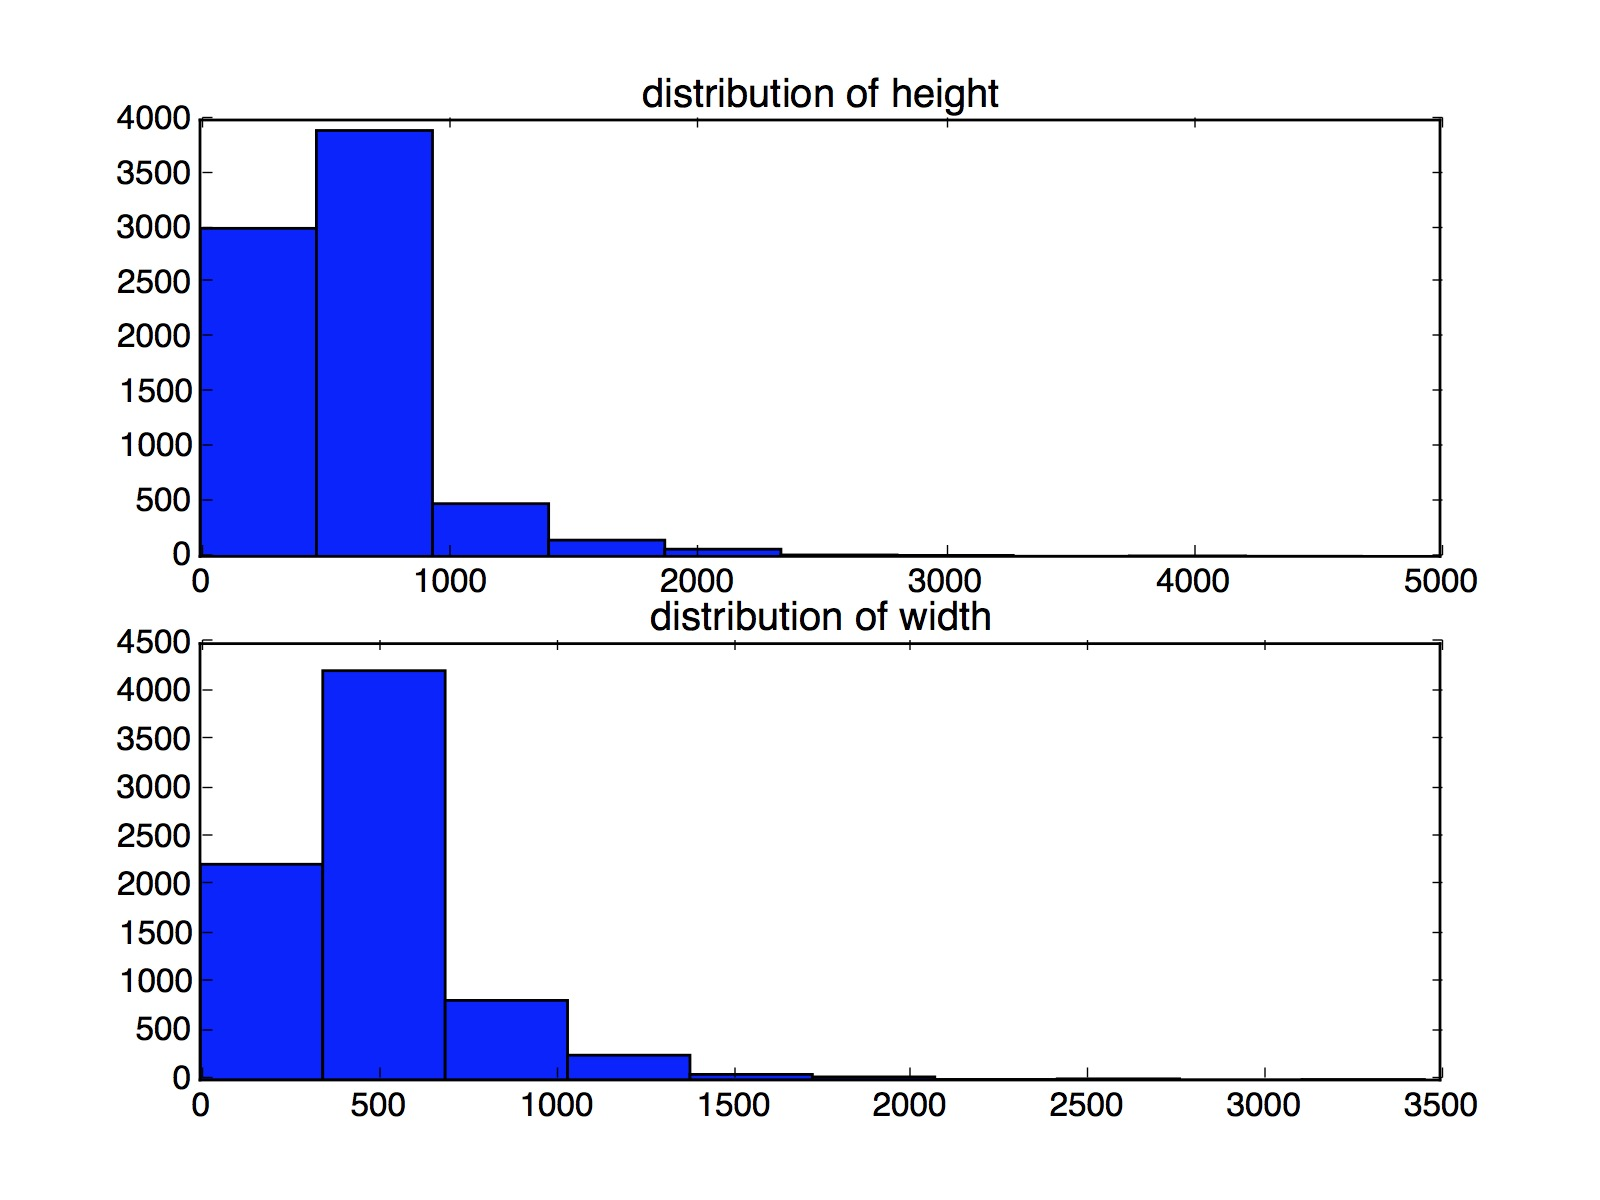
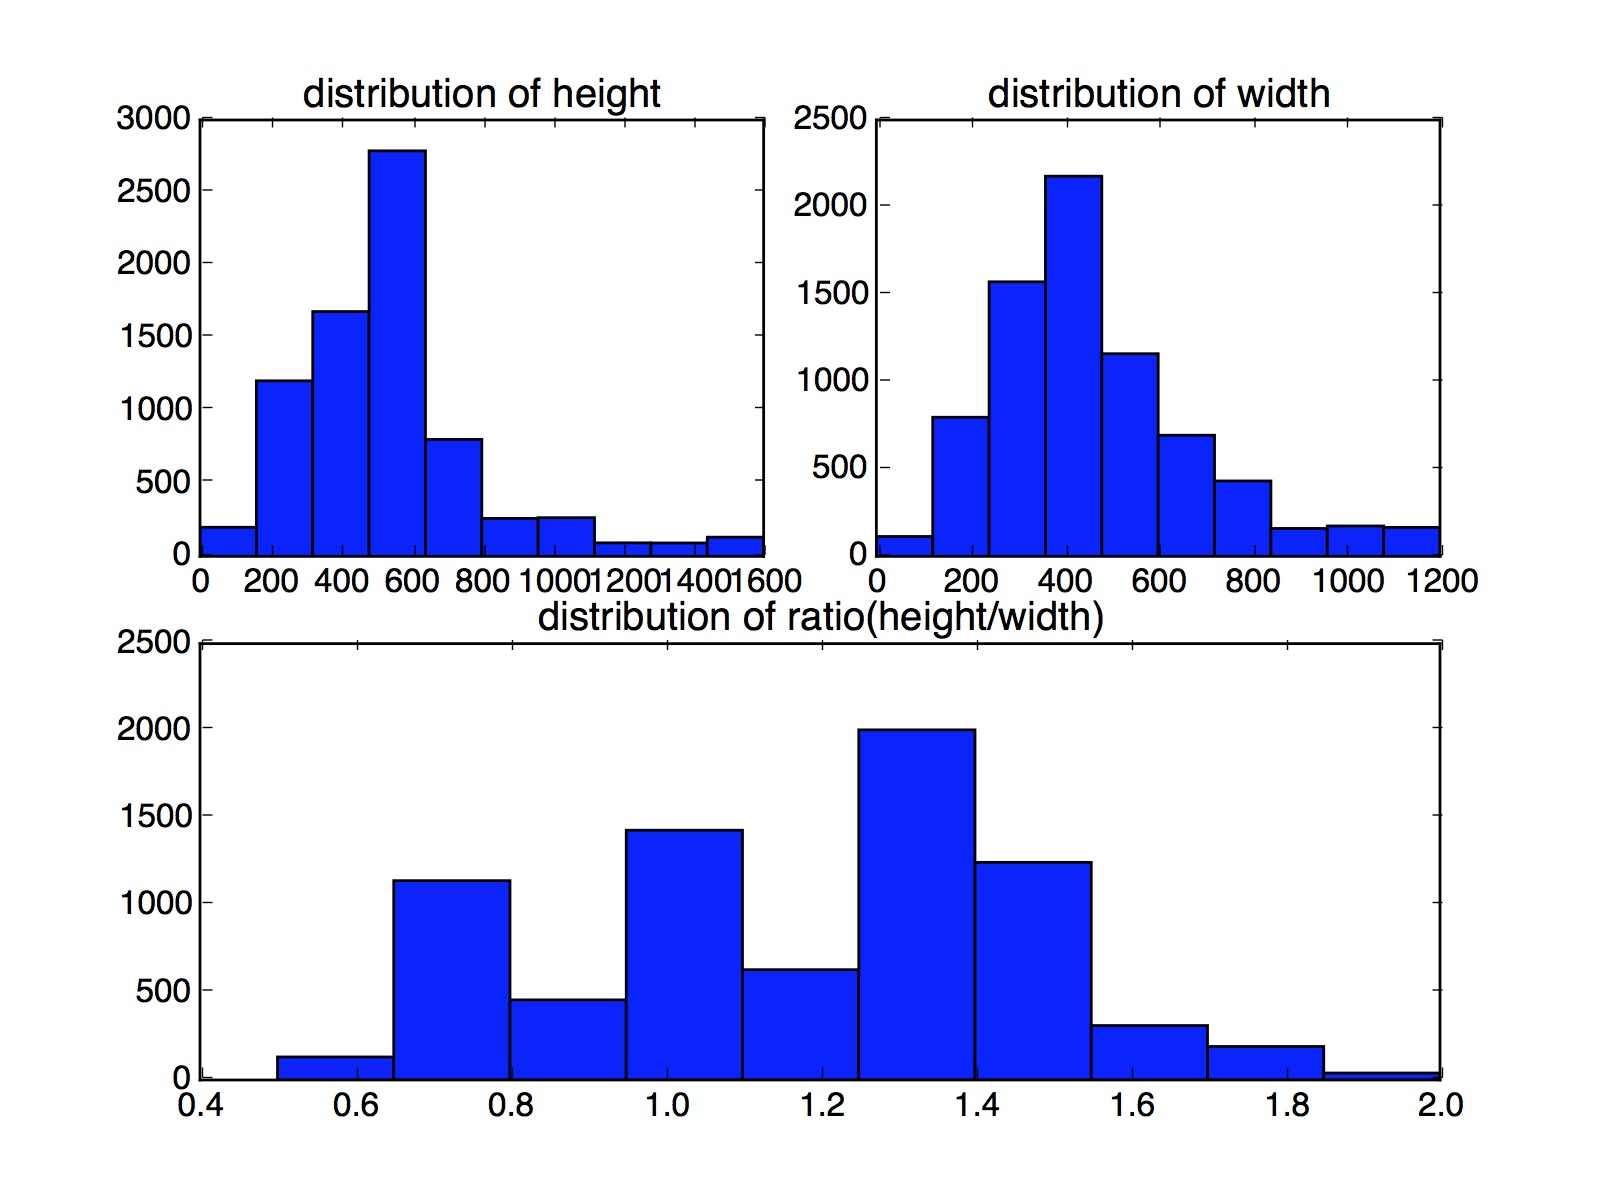
add ratio distribution

diff --git a/data/analysis_pic.py b/data/analysis_pic.py
@@ -1,6 +1,7 @@
 import os
 from PIL import Image
 import matplotlib.pyplot as plt
+import numpy as np
 
 pic_path = 'train_data/'
 filelist = os.listdir(pic_path)
@@ -18,11 +19,19 @@ for filename in filelist:
 # output.close()
 
 fig = plt.figure()
-ax1 = fig.add_subplot(2,1,1)
-ax2 = fig.add_subplot(2,1,2)
-ax1.hist(height)
+ax1 = fig.add_subplot(2,2,1)
+ax2 = fig.add_subplot(2,2,2)
+ax3 = fig.add_subplot(2,1,2)
+ax1.hist(height, range = (0, 1600))
 ax1.set_title('distribution of height')
-ax2.hist(width)
+ax2.hist(width, range = (0, 1200))
 ax2.set_title("distribution of width")
+a = np.array(height)
+b = np.array(width)
+a.dtype = "float64"
+b.dtype = "float64"
+c = a / b
+ax3.hist(c, range = (0.5, 2))
+ax3.set_title("distribution of ratio(height/width)")
 
 plt.savefig('distribution_of_h_and_w.jpg')
